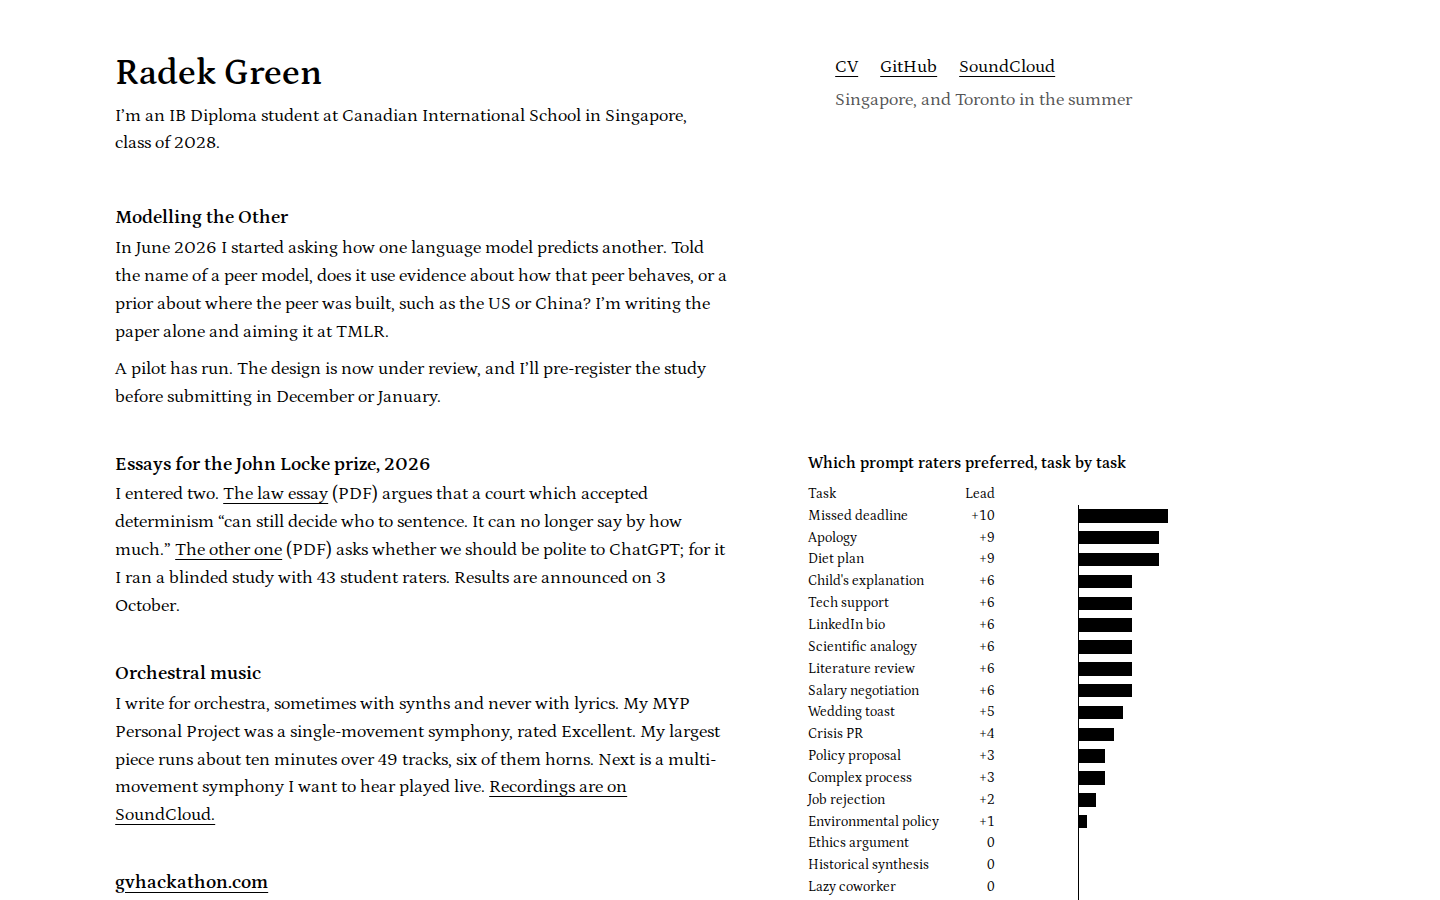
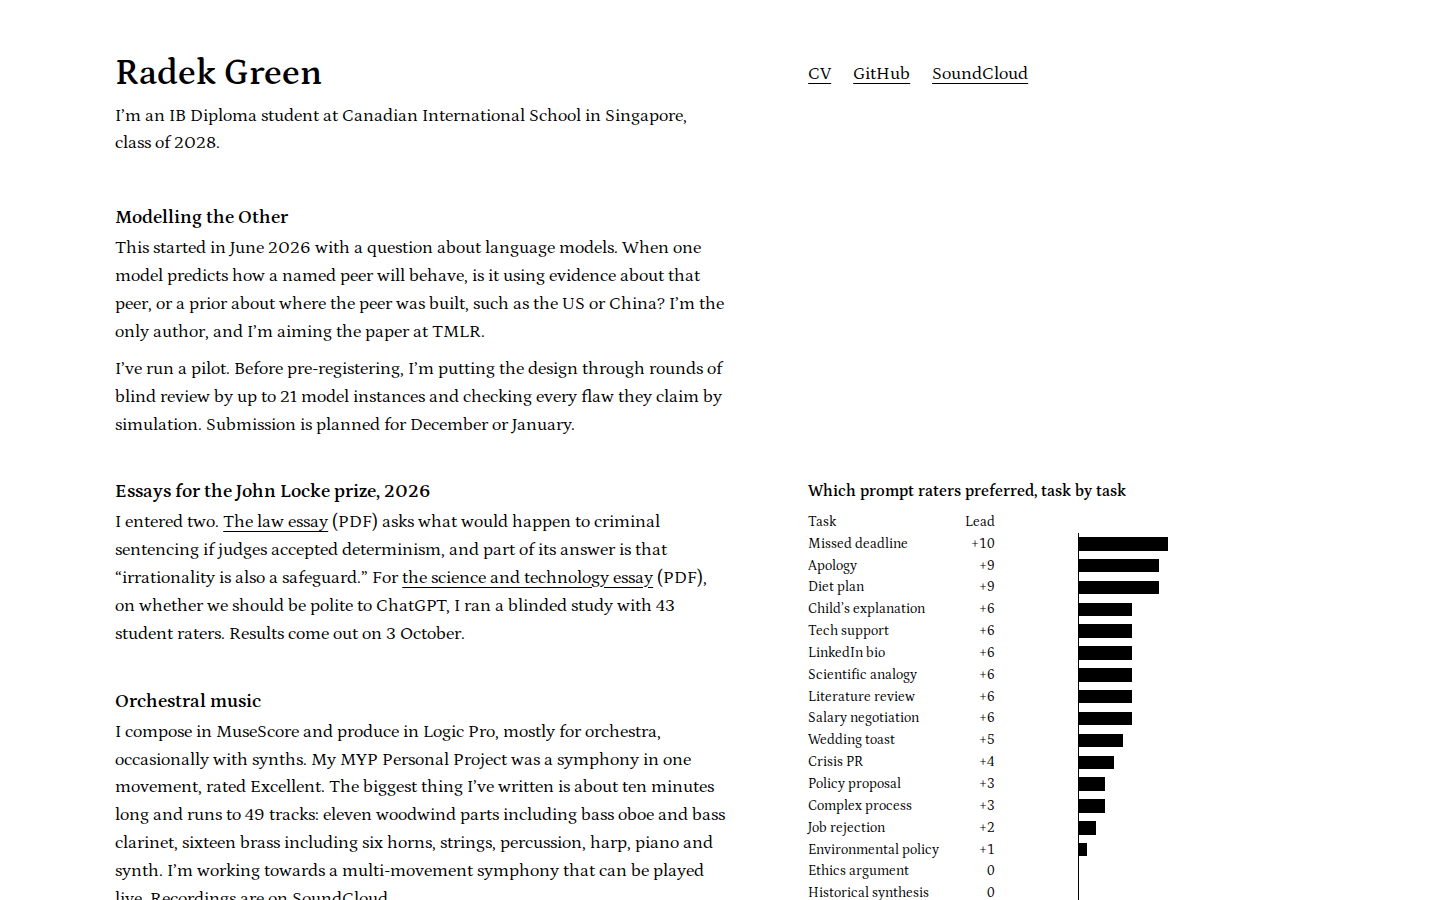
Second fresh review: vary entry lengths, plainer copy, aligned header
Round 0b reviewers put the revised mockup at 10 and 45 percent. The remaining
case was about copy: one shared arc per entry, near-equal lengths, clipped
beats and a symmetric quotation. Entries now run from 37 to 90 words, credit
is stated once, and the header shares the page's column grid. New patterns
the reviewers found are added to AI_TELLS.md as R1 to R11.

Claude-Session: https://claude.ai/code/session_01V9BvjhFfVHHfsQuTahVY1m

diff --git a/_planning/mockup/first-screen.html b/_planning/mockup/first-screen.html
@@ -4,7 +4,7 @@
 <meta charset="utf-8">
 <meta name="viewport" content="width=device-width, initial-scale=1">
 <title>Radek Green</title>
-<meta name="description" content="Research, essays, software and orchestral music by Radek Green, an IB Diploma student in Singapore, with links to the work itself.">
+<meta name="description" content="I’m Radek Green, an IB Diploma student in Singapore. This page lists what I’m working on and links to each piece of work.">
 <style>
 @font-face { font-family: Petrona; src: url(fonts/petrona.woff2) format("woff2"); font-weight: 100 900; font-display: swap; }
 @font-face { font-family: Petrona; src: url(fonts/petrona-italic.woff2) format("woff2"); font-weight: 100 900; font-style: italic; font-display: swap; }
@@ -17,12 +17,11 @@ a:visited { text-decoration-color: #999; }
 a:focus-visible { outline: 2px solid #000; outline-offset: 3px; }
 
 .page { max-width: 60rem; padding: 3rem 2rem 4rem 8vw; }
-header { display: flex; justify-content: space-between; gap: 3rem; margin-bottom: 2.5rem; }
+header { display: grid; grid-template-columns: minmax(0, 34rem) 20rem; column-gap: 4.5rem; margin-bottom: 2.5rem; }
 h1 { font-size: 2rem; font-weight: 600; line-height: 1.1; margin: 0 0 0.5rem; }
 header p { margin: 0; max-width: 32rem; }
-.links { width: 20rem; flex-shrink: 0; }
+.links { margin-top: 0.4rem; }
 .links a { margin-right: 1rem; }
-.links span { display: block; margin-top: 0.3rem; color: #555; }
 
 main { display: grid; grid-template-columns: minmax(0, 34rem) 20rem; column-gap: 4.5rem; align-items: start; }
 section { grid-column: 1; margin-bottom: 1.6rem; }
@@ -45,7 +44,7 @@ figcaption { margin-top: 0.7rem; color: #333; }
 @media (max-width: 1080px) {
   .page { padding: 1.6rem 1.25rem 3rem; }
   header { display: block; margin-bottom: 2rem; }
-  .links { width: auto; margin-top: 0.8rem; }
+  .links { margin-top: 0.8rem; }
   main { display: block; }
   figure { margin-top: 2rem; font-size: 0.82rem; }
 }
@@ -66,35 +65,34 @@ figcaption { margin-top: 0.7rem; color: #333; }
     <a href="/cv/">CV</a>
     <a href="https://github.com/worldwiderad">GitHub</a>
     <a href="https://soundcloud.com/radekgreen">SoundCloud</a>
-    <span>Singapore, and Toronto in the summer</span>
   </p>
 </header>
 
 <main>
 <section>
   <h2>Modelling the Other</h2>
-  <p>In June 2026 I started asking how one language model predicts another. Told the name of a peer model, does it use evidence about how that peer behaves, or a prior about where the peer was built, such as the US or China? I’m writing the paper alone and aiming it at TMLR.</p>
-  <p>A pilot has run. The design is now under review, and I’ll pre-register the study before submitting in December or January.</p>
+  <p>This started in June 2026 with a question about language models. When one model predicts how a named peer will behave, is it using evidence about that peer, or a prior about where the peer was built, such as the US or China? I’m the only author, and I’m aiming the paper at TMLR.</p>
+  <p>I’ve run a pilot. Before pre-registering, I’m putting the design through rounds of blind review by up to 21 model instances and checking every flaw they claim by simulation. Submission is planned for December or January.</p>
 </section>
 
 <section>
   <h2>Essays for the John Locke prize, 2026</h2>
-  <p>I entered two. <a href="https://cztdhwzvmmioaqaeewpz.supabase.co/storage/v1/object/public/essays/submissions/7c67e44e-4b67-4f72-8107-4dcbeecb2ba9/law-1-1780137234064.pdf">The law essay</a> (PDF) argues that a court which accepted determinism “can still decide who to sentence. It can no longer say by how much.” <a href="https://cztdhwzvmmioaqaeewpz.supabase.co/storage/v1/object/public/essays/submissions/7c67e44e-4b67-4f72-8107-4dcbeecb2ba9/science%20&amp;%20technology-3-1780201877477.pdf">The other one</a> (PDF) asks whether we should be polite to ChatGPT; for it I ran a blinded study with 43 student raters. Results are announced on 3 October.</p>
+  <p>I entered two. <a href="https://cztdhwzvmmioaqaeewpz.supabase.co/storage/v1/object/public/essays/submissions/7c67e44e-4b67-4f72-8107-4dcbeecb2ba9/law-1-1780137234064.pdf">The law essay</a> (PDF) asks what would happen to criminal sentencing if judges accepted determinism, and part of its answer is that “irrationality is also a safeguard.” For <a href="https://cztdhwzvmmioaqaeewpz.supabase.co/storage/v1/object/public/essays/submissions/7c67e44e-4b67-4f72-8107-4dcbeecb2ba9/science%20&amp;%20technology-3-1780201877477.pdf">the science and technology essay</a> (PDF), on whether we should be polite to ChatGPT, I ran a blinded study with 43 student raters. Results come out on 3 October.</p>
 </section>
 
 <section>
   <h2>Orchestral music</h2>
-  <p>I write for orchestra, sometimes with synths and never with lyrics. My MYP Personal Project was a single-movement symphony, rated Excellent. My largest piece runs about ten minutes over 49 tracks, six of them horns. Next is a multi-movement symphony I want to hear played live. <a href="https://soundcloud.com/radekgreen">Recordings are on SoundCloud.</a></p>
+  <p>I compose in MuseScore and produce in Logic Pro, mostly for orchestra, occasionally with synths. My MYP Personal Project was a symphony in one movement, rated Excellent. The biggest thing I’ve written is about ten minutes long and runs to 49 tracks: eleven woodwind parts including bass oboe and bass clarinet, sixteen brass including six horns, strings, percussion, harp, piano and synth. I’m working towards a multi-movement symphony that can be played live. Recordings are on <a href="https://soundcloud.com/radekgreen">SoundCloud</a>.</p>
 </section>
 
 <section>
   <h2><a href="https://gvhackathon.com">gvhackathon.com</a></h2>
-  <p>Our school’s AI and computer science hackathon runs from 19 November to 9 December, with two divisions and US$3,000 in prizes. I co-lead it with our CS teacher and wrote the competition platform on my own. Getting the event a week to itself took some negotiating with school leadership and an outside vendor.</p>
+  <p>I wrote the competition platform for our school’s AI and computer science hackathon and co-lead the event with our CS teacher. It opens on 19 November with two divisions and US$3,000 in prizes; the closing ceremony is on 9 December. I also negotiated with school leadership and an outside vendor so the event got its own week.</p>
 </section>
 
 <section>
   <h2>CIS-MAP</h2>
-  <p>New English-language learners get lost on our campus, where the signs are only in English. CIS-MAP lets them search for a room in English or Chinese and draws the route on the floor plan. A C++ program works out the routes between 53 locations ahead of time. It’s still a prototype (<a href="https://github.com/worldwiderad/CIS-MAP-V2">code</a>).</p>
+  <p>A room finder for students new to English, whose signs are only in English: search in English or Chinese and the route appears on the floor plan, precomputed in C++ for 53 locations. It’s a prototype (<a href="https://github.com/worldwiderad/CIS-MAP-V2">code</a>).</p>
 </section>
 
 <figure>
@@ -105,7 +103,7 @@ figcaption { margin-top: 0.7rem; color: #333; }
 <tr style="--v:10"><th scope="row">Missed deadline</th><td>+10</td><td class="bar"><i></i></td></tr>
 <tr style="--v:9"><th scope="row">Apology</th><td>+9</td><td class="bar"><i></i></td></tr>
 <tr style="--v:9"><th scope="row">Diet plan</th><td>+9</td><td class="bar"><i></i></td></tr>
-<tr style="--v:6"><th scope="row">Child's explanation</th><td>+6</td><td class="bar"><i></i></td></tr>
+<tr style="--v:6"><th scope="row">Child’s explanation</th><td>+6</td><td class="bar"><i></i></td></tr>
 <tr style="--v:6"><th scope="row">Tech support</th><td>+6</td><td class="bar"><i></i></td></tr>
 <tr style="--v:6"><th scope="row">LinkedIn bio</th><td>+6</td><td class="bar"><i></i></td></tr>
 <tr style="--v:6"><th scope="row">Scientific analogy</th><td>+6</td><td class="bar"><i></i></td></tr>
@@ -129,7 +127,7 @@ figcaption { margin-top: 0.7rem; color: #333; }
 <tr class="neg" style="--v:8"><th scope="row">Psychology breakdown</th><td>−8</td><td class="bar"><i></i></td></tr>
     </tbody>
   </table>
-  <figcaption>From the politeness essay. Each bar is the number of raters who preferred the answer to the polite prompt, minus those who preferred the answer to the bare one. I grouped the tasks only after seeing the results: the polite prompt did best on interpersonal tasks like the missed-deadline email, and the bare one on structured tasks like the grading rubric. The hollow bar is medical diagnosis, left out because its two prompts also changed who the user was.</figcaption>
+  <figcaption>For each task in the politeness essay: raters who preferred the answer to the polite prompt, minus those who preferred the answer to the bare one. The hollow bar is a task I set aside, because its two prompts also changed the user’s role.</figcaption>
 </figure>
 </main>
 </div>

diff --git a/_planning/DESIGN_PROPOSAL.md b/_planning/DESIGN_PROPOSAL.md
@@ -10,8 +10,8 @@ The site should read like one of Radek's essays, not like a portfolio. It is set
 
 | Decision | Taken from | Why not the usual choice |
 |---|---|---|
-| **Petrona** for everything, one family | Both John Locke essays are set in Petrona (I read the PDFs' font tables) | Readers move from the homepage into the PDFs without a change of voice. Petrona is not on any list of AI-default or "tasteful default" faces (Inter, Geist, Space Grotesk, Instrument Serif, Fraunces, Playfair). It has true old-style figures, which suit running text, and tabular figures for the table |
-| **Black `#000` on white `#fff`**, grey `#555` for status lines, no accent colour | The essays, the result tables and an orchestral score are all black on white. The page also prints as it looks | Avoids cream/terracotta (P1), near-black with an acid accent (P2), tinted `#111` (P5) and every gradient (V1–V3). Pure black is a stated choice (V8) |
+| **Petrona** for everything, one family | Both John Locke essays are set in Petrona (I read the PDFs' font tables) | Readers move from the homepage into the PDFs without a change of voice. Petrona is not on any list of AI-default or "tasteful default" faces (Inter, Geist, Space Grotesk, Instrument Serif, Fraunces, Playfair). Running text keeps Petrona's default figures, as the PDFs do; the table uses its tabular figures so the numbers line up |
+| **Black `#000` on white `#fff`**, grey `#555` only for the location line and the set-aside row, no accent colour | The essays, the result tables and an orchestral score are all black on white. The page also prints as it looks | Avoids cream/terracotta (P1), near-black with an acid accent (P2), tinted `#111` (P5) and every gradient (V1–V3). Pure black is a stated choice (V8) |
 | **One real figure** in place of decoration | Figure 3 of the politeness essay, transcribed exactly: 25 tasks, leads +10 to −8, with the task set aside drawn as a hollow bar. It sits beside the essay entry, not at the top of the page | His data, showing the essay's actual finding (the effect reverses by task type), captioned in the essay's own terms: the groups were assigned after the results. A chart made to decorate would be V21; this one is the evidence itself |
 | **Status written into the prose**, only where there is a real state or date ("A pilot has run. The design is now under review", "Results are announced on 3 October", "It's still a prototype") | The essays qualify every claim ("an illustrative pilot, not a confirmatory test") | The brief requires unfinished work to be labelled unfinished. A sentence does it without pills, badges or dots (L2, M7). The first mockup had a grey status line under every entry, and both fresh reviewers named that identical shape as the strongest tell, so entries now vary in shape and length |
 | **Evidence linked from the words themselves** ("what would happen to criminal sentencing if judges and legislators accepted determinism (PDF)") | The brief: every entry links to its evidence | No "View project →" buttons, no arrows (P5), no icons. Link text says where it goes |
@@ -26,25 +26,25 @@ The site should read like one of Radek's essays, not like a portfolio. It is set
 DESKTOP (≥1080 px)                           PHONE (360 px)
 
 Radek Green                   CV GitHub SoundCloud   Radek Green
-I'm an IB Diploma student …   Singapore, and Toronto I'm an IB Diploma student …
-                              in the summer          CV  GitHub  SoundCloud
-                              ┌ score page, if ┐     Singapore, and Toronto …
+I'm an IB Diploma student …                          I'm an IB Diploma student …
+                              ┌ score page, if ┐     CV  GitHub  SoundCloud
 Modelling the Other           │ Radek sends one│     Modelling the Other
-The question, June 2026.      └────────────────┘     …
-Pilot run; under review.                             Essays for the John Locke …
-                              ┌ figure: lead  ┐      <- first screen ends
-Essays for the John Locke …   │ by task, +10  │      Orchestral music
-The law essay argues … "quote" │ … −8          │      gvhackathon.com
-The other one … 43 raters.    └───────────────┘      CIS-MAP  <- second screen ends
-Orchestral music                                     figure
+The question, June 2026.      └────────────────┘     … (the longest entry)
+Pilot run; blind review of                           Essays for the John Locke …
+the design, then TMLR.        ┌ figure: lead  ┐      <- first screen ends
+                              │ by task, +10  │      Orchestral music
+Essays for the John Locke …   │ … −8          │      gvhackathon.com   <- second screen ends
+"irrationality is also a      └───────────────┘      CIS-MAP (the shortest)
+safeguard." 43 raters.                               figure
+Orchestral music (longer, with instrumentation)
 gvhackathon.com
-CIS-MAP
+CIS-MAP (two lines)
 ```
 
 Below the first screen, still on the homepage (depth for anyone who scrolls, and none of it hidden in accordions):
 
 1. **Modelling the Other** in full: the question as first posed in June 2026; the two builds; the review method (rounds of blind adversarial review by up to 21 model instances, every claimed flaw checked by simulation); what is built (collection harness with spend limits, dual-judge labelling, prediction runner, analysis). Status and dates. Pilot numbers only if you approve them.
-2. **The two essays.** For each: the prompt as printed on its cover, the argument in a few sentences, and one quoted line. Law: "A court that accepts determinism can still decide who to sentence. It can no longer say by how much." Politeness: the study (25 task pairs, 43 raters aged 15 to 19, 62.2% of non-tie votes, 95% CI 55.5 to 68.9%, the length check), all with the PDF's own numbers. Then the process line about the sixteen reviewers. The slot for the result sits here.
+2. **The two essays.** For each: the prompt as printed on its cover, the argument in a few sentences, and one quoted line. Law: "A court that accepts determinism can still decide who to sentence. It can no longer say by how much." (the first screen quotes "irrationality is also a safeguard" instead, because one reviewer found the symmetry of this line LLM-like even as a quotation). Politeness: the study (25 task pairs, 43 raters aged 15 to 19, 62.2% of non-tie votes, 95% CI 55.5 to 68.9%, the length check), all with the PDF's own numbers. Then the process line about the sixteen reviewers. The slot for the result sits here.
 3. **Software.** gvhackathon.com (role, dates, the scheduling negotiation); CIS-MAP (the problem, how the path baker works in two sentences, status); VPS Veritas (only what you confirm); then the smaller builds as a short plain list: the security node, the synthesiser, the vocabulary app, the Claude skills.
 4. **Music** as a composer's works list: title, forces, length, year, status, and a listen control for each. The 49-track piece gets its instrumentation written the way a concert programme would give it, if you send me the parts list.
 5. **Competitions**: World Scholar's Cup results as a small three-row table (year, round, result); club co-lead and the 2026 delegation; the other contests.

diff --git a/_planning/AUDIT.md b/_planning/AUDIT.md
@@ -64,4 +64,41 @@ What both reviewers named as clearly human:
 
 ### Round 0b reviewers
 
-(pending)
+A new pair of fresh reviewers looked at the revised mockup (`review1/`: the same four kinds of file, the same instructions).
+
+- Reviewer B (Sonnet, admissions reader): **about 10%** (down from 60% in round 0a).
+  - Human signals it named:
+    - the plain-table chart with its one encoded exception;
+    - the admitted after-the-fact grouping in the caption;
+    - headings that don't match each other (a literary title, a dated event, a bare domain, an acronym);
+    - "US$", the specific numbers and the real URLs;
+    - no framework and no scaffolding.
+  - What it still flagged:
+    - the meta description, the one line written *about* the page rather than *by* its author (weak);
+    - the page has no photo or first-hand visual, only a clean chart (weak);
+    - every paragraph is declarative and polished, with no hedge or aside (weak).
+  - Actions:
+    - Meta description rewritten in the first person: "I’m Radek Green, an IB Diploma student in Singapore. This page lists what I’m working on and links to each piece of work."
+    - The first-hand visual depends on Radek (the score page, Q8).
+    - I have not added invented hedges or "rough edges". Deliberately planting imperfection would be a fabrication of its own, and the honest source of unevenness is Radek's own sentences (Q31).
+- Reviewer A (Opus, informed reader): **45%** (down from 55%).
+  - About 70% would suspect AI *edited* the copy; under 10% would take the page for a template or site-builder output. "The visuals hardly contribute."
+  - What it flagged, and what I did:
+
+| Finding | Strength | Action |
+|---|---|---|
+| Every blurb follows one arc (context, then a number, then who did what, then status) and four are 50–57 words long | strong | Lengths now run from 37 to 90 words. The credit is stated once. Only two entries end on a status. Music is longer and looser (it now gives the instrumentation from the brief), and CIS-MAP is short |
+| An adult editor's voice with no opinion or admission | strong | Needs Radek's own words (Q31). Not faked |
+| Clipped beats ("A pilot has run."); vague passive ("The design is now under review") | moderate | "I've run a pilot. Before pre-registering, I'm putting the design through rounds of blind review by up to 21 model instances…" (the method from the brief, in the active voice) |
+| Fronted participle ("Told the name of a peer model, does it…") | moderate | Rewritten as a plain question |
+| The quoted law line's "can still… / can no longer…" symmetry is what readers now associate with LLM prose, even as a quotation | moderate | The first screen now quotes "irrationality is also a safeguard." The "by how much" line moves to the essay section lower down |
+| "sometimes with synths and never with lyrics"; "took some negotiating…" | moderate | Rewritten plainly |
+| Caption over-caveats (the after-the-fact grouping plus the set-aside note) | moderate | Cut to two sentences: what a bar is, and what the hollow bar is. The grouping note belongs to the essay section |
+| A location line that looks like a template field | weak–moderate | Removed from the header. It will go with the contact details lower down |
+| Straight apostrophe in "Child's explanation" among curly ones | weak–moderate | Fixed |
+| Header links 27px out of line with the figure column; empty block at top right | weak | Header now uses the same column grid. The top-right block is left for the score page (Q8) |
+| A data figure on a homepage reads as a designed flourish; the task labels sound like LLM-generated prompts | moderate | The figure stays, beside its essay. Reviewer B scored the same figure as a *strong human* signal. Labels are the study's own |
+
+The two reviewers disagree most about the figure and about typographic care. The informed reader reads them as signs of a model; the admissions reader reads them as signs of a careful person. Both agree on the copy. The remaining risk is the voice, and only Radek can supply that.
+
+No round 0c was run. This is a direction mockup; the full audit loop runs on the built preview, with Radek's own sentences in place.

diff --git a/_planning/AI_TELLS.md b/_planning/AI_TELLS.md
@@ -189,6 +189,31 @@ This list is also `_planning/tools/banned-words.txt`, which `copycheck.py` reads
 
 additionally (opening a sentence), align with, arguably, at the end of the day, at the intersection of, authored, best-in-class, boasts, bolster, commendable, commitment to, comprehensive, core (as an adjective), craft/crafted/crafting, crucial, cultivate, curated, cutting-edge, deep dive, deeply, delve **B**, despite these challenges, dive into, diverse array, driven by, earns its keep, ecosystem, effortless, elevate, embark, embrace, empower, encompass, enduring, enhance, ensure, ever-evolving, evolving landscape, exemplify, experts say, featured in, feel free to, foster, fundamentally, game-changing, garner, genuinely, groundbreaking, harness, here's the thing, highlight (as a verb), holistic, honest caveat, I hope this helps, imagine, importantly **B**, in conclusion, in summary, in the heart of, in today's world, indelible, innovative, interplay, intricate, it's important to note, it's worth noting, journey, key (as an adjective), landscape (abstract), leverage **B**, lifelong, liminal, load-bearing, meaningful, meticulous, modern, multifaceted, myriad, navigate, nestled, notably **B**, nuanced **B**, paradigm, passionate, paving the way, pivotal, plethora, profound, quietly, realm, remarkable, renowned, resonate, revolutionise, rich (abstract), robust **B**, seamless, seam, serves as, showcase, spearhead, stands as, streamline, supercharge, synergy, tapestry **B**, testament, thrilled, transformative, truly, underscore, unleash, unlock, unparalleled, utilise, valuable insights, vibrant, vital, whether you're, world-class.
 
+## R. Found by fresh reviewers on this site's own mockup
+
+None of these came from the literature. Two rounds of blind reviewers found them on the mockup, and they are part of the standard from here on.
+
+- **R1** Every entry built the same way (context, then a number, then who did what, then status), however unrelated the projects. Both reviewers in round 0a rated this the strongest tell.
+- **R2** Entries of near-identical length (four of five within 50–57 words).
+- **R3** A hard number in every single entry, which reads as a rule being followed.
+- **R4** Credit scoped precisely in every entry ("alone", "on my own", "sole").
+- **R5** Clipped declarative beats as openers or closers ("A pilot has run." "It's still a prototype."). Also agentless passives ("is under review").
+- **R6** Compressed, writerly syntax such as fronted participles ("Told the name of a peer model, does it…").
+- **R7** Captions that pre-empt every objection. Careful self-caveating is read as a Claude habit, even when it is honest.
+- **R8** A meta description that sums up the page from outside, in the third person.
+- **R9** Symmetric lines are flagged even inside quotations ("can still… / can no longer…").
+- **R10** Mixed quote styles (one straight apostrophe among curly ones).
+- **R11** Polished prose with no dashes at all can read as deliberate avoidance. The brief's no-em-dash rule stands; the answer is ordinary punctuation used naturally, not a substitute tic.
+
+The positive standard the reviewers agreed on:
+
+- Real URLs and handles, specific numbers, and IB terms used correctly.
+- Headings that don't match each other.
+- The hollow bar for the task that was set aside.
+- Untidy real data.
+
+The unresolved point: both reviewers said the page has facts but no voice. That can only come from Radek.
+
 ## Risks specific to this project
 
 These came from the material itself, not from the literature.
